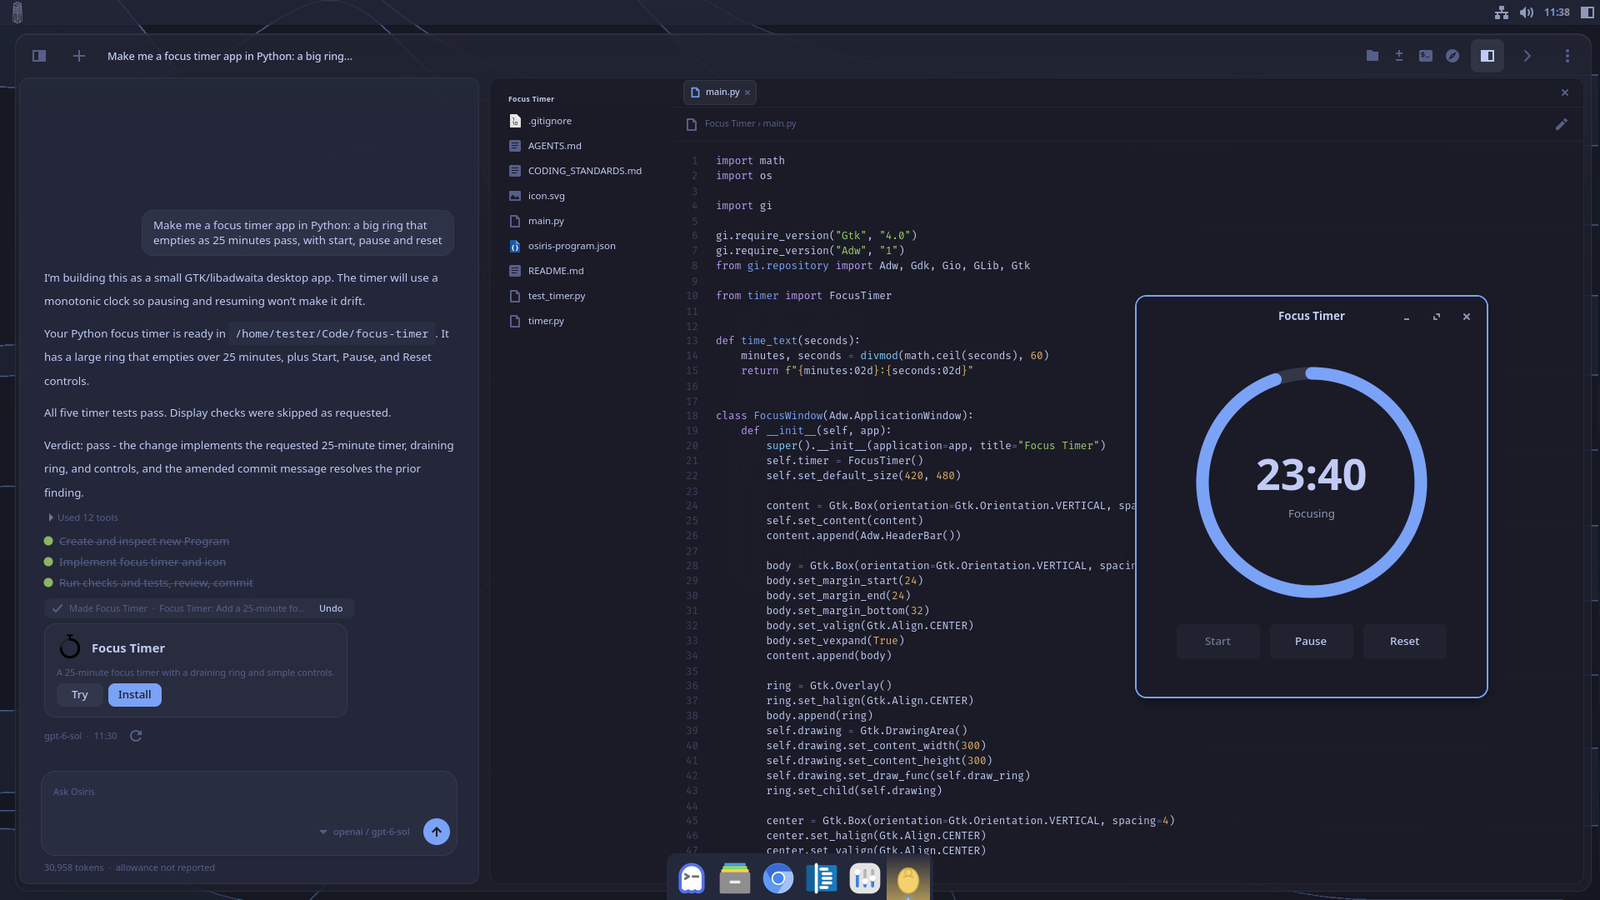
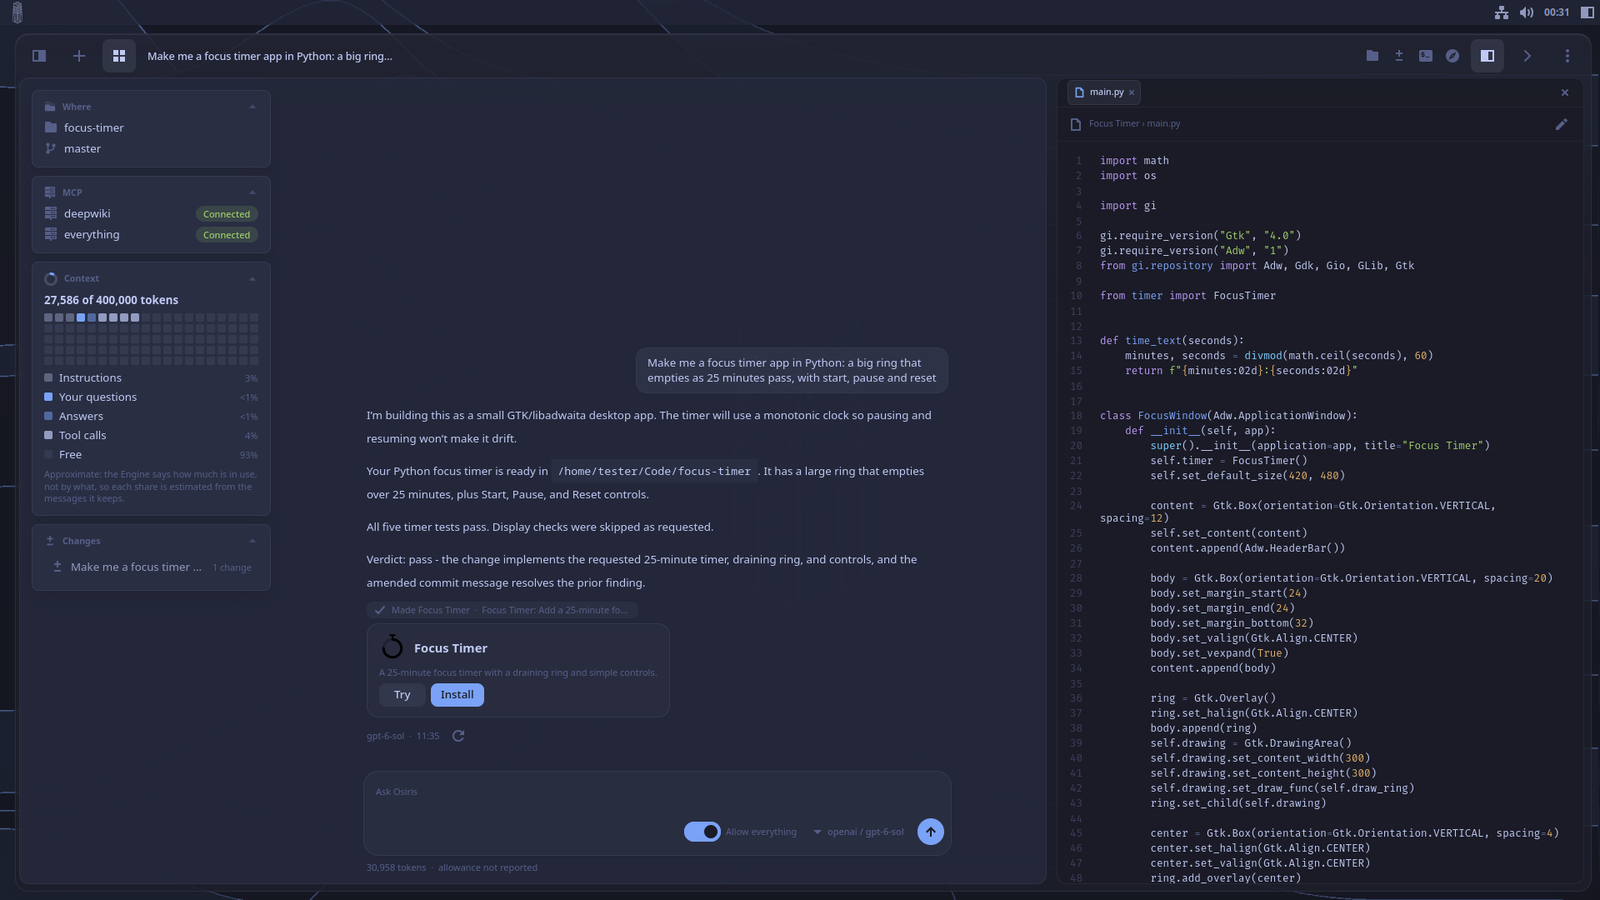
Show Osiris on the site as it is without Undo
The three shots still showed a button the app no longer has. The expanded view
now also shows the Conversation's cards, which the site had not shown.

diff --git a/site/index.html b/site/index.html
@@ -63,7 +63,7 @@
           as a wallpaper, and it makes one and puts it on your desktop.</p>
       </div>
       <figure class="shot">
-        <img src="screenshots/agent.png" alt="Osiris expanded: the conversation that made Focus Timer, its code, and the timer running in the same colours" loading="lazy">
+        <img src="screenshots/agent.png" alt="Osiris expanded, with cards for its folder, MCP servers, context and changes beside the conversation that made Focus Timer and the app's code" loading="lazy">
       </figure>
     </section>
     <section class="feature reverse">
